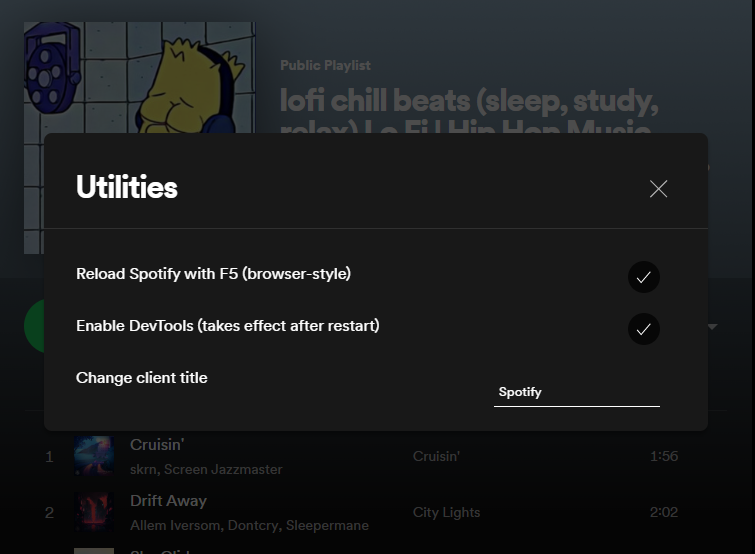
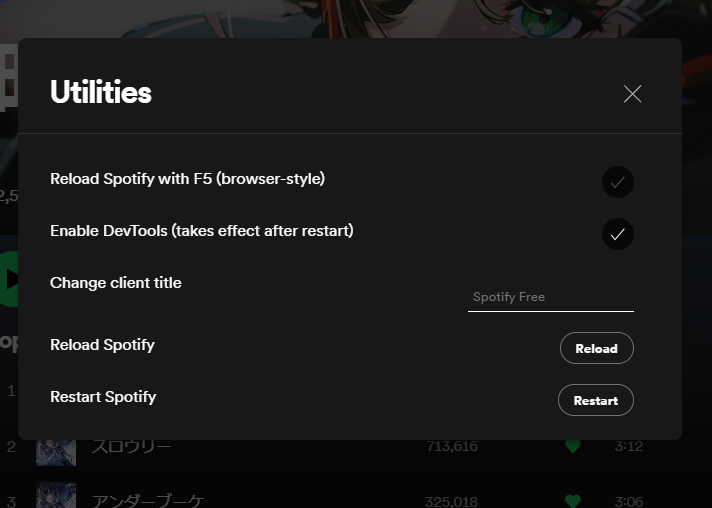
feat: add option to reload & restart

diff --git a/utilities.js b/utilities.js
@@ -77,6 +77,23 @@
           width: 22px;
           height: 22px;
           padding: 3px;
+      }
+      button.btn {
+          font-weight: 700;
+          font-size: medium;
+          background-color: transparent;
+          border-radius: 500px;
+          transition-duration: 33ms;
+          transition-property: background-color, border-color, color, box-shadow, filter, transform;
+          padding-inline: 15px;
+          border: 1px solid #727272;
+          color: var(--spice-text);
+          min-block-size: 32px;
+          cursor: pointer;
+      }
+      button.btn:hover {
+          transform: scale(1.04);
+          border-color: var(--spice-text);
       }`;
     container.appendChild(style);
 
@@ -137,6 +154,20 @@
         return container;
     }
 
+    function createButton(name, desc, onclick) {
+        const button = document.createElement("div");
+        button.classList.add("setting-row");
+        button.id = "reset";
+        button.innerHTML += `
+          <label class="col description">${desc}</label>
+          <div class="col action">
+            <button class="btn">${name}</button>
+          </div>`;
+        const btn = button.querySelector("button.btn");
+        btn.onclick = onclick;
+        return button;
+    }
+
     // Reload keybind
     container.appendChild(
         createSlider("reload", "Reload Spotify with F5 (browser-style)", false, (state) => {
@@ -181,6 +212,20 @@
                 Spicetify.AppTitle.set(state);
                 titleInterval = setInterval(setTitle, 5000, state);
             }
+        })
+    );
+
+    // Reload Spotify
+    container.appendChild(
+        createButton("Reload", "Reload Spotify", () => {
+            window.location.reload();
+        })
+    );
+
+    // Restart Spotify
+    container.appendChild(
+        createButton("Restart", "Restart Spotify", () => {
+            Spicetify.Platform.UpdateAPI.applyUpdate();
         })
     );
 
